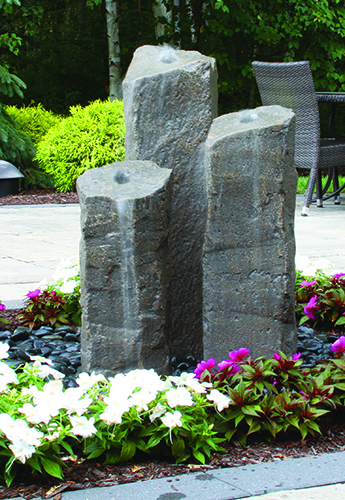
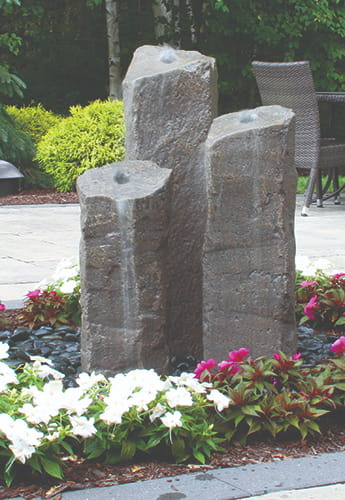
Add AI enhanced text to the AI generated images. Remove this from alt text.

diff --git a/assets/js/theme/product.js b/assets/js/theme/product.js
@@ -80,6 +80,7 @@ export default class Product extends PageManager {
         });
 
         this.productReviewHandler();
+        this.generateWaterMark();
     }
 
     ariaDescribeReviewInputs($form) {
@@ -102,5 +103,58 @@ export default class Product extends PageManager {
         if (this.url.indexOf('#bulk_pricing') !== -1) {
             this.$bulkPricingLink.trigger('click');
         }
+    }
+
+    generateWaterMark() {
+        const watermarkText = this.context.ai_watermark_text;
+
+        const slides = document.querySelectorAll('.ob-image-main-carousel .productView-image.slick-slide');
+
+        slides.forEach((slide) => {
+            const img = slide.querySelector('img[data-main-image]');
+            const container = slide.querySelector('.productView-img-container');
+
+            if (!img || !container) return;
+
+            const alt = img.getAttribute('alt') || '';
+            const hasAiMarker = alt.includes('--AI');
+
+            const existing = container.querySelector('.ai-enhanced-watermark');
+
+            if (!hasAiMarker) {
+                if (existing) existing.remove();
+                return;
+            }
+
+            if (existing) return;
+
+            if (hasAiMarker) {
+                img.setAttribute("alt", alt.replace(/\s*--AI\s*/g, " ").trim());
+            }
+
+            container.style.position = 'relative';
+
+            const watermark = document.createElement('div');
+            watermark.className = 'ai-enhanced-watermark';
+            watermark.textContent = watermarkText;
+            watermark.style.cssText = `
+                position: absolute;
+                right: 18px;
+                bottom: 15px;
+                background: rgba(0, 0, 0, 0.65);
+                color: white;
+                padding: 4px 8px;
+                font-size: 12px;
+                font-weight: 600;
+                border-radius: 4px;
+                z-index: 20;
+                pointer-events: none;
+                line-height: 1;
+                white-space: nowrap;
+            `;
+
+            container.appendChild(watermark);
+            img.setAttribute("alt", alt.replace("--AI", ""));
+        });
     }
 }

diff --git a/templates/components/products/product-view.html b/templates/components/products/product-view.html
@@ -1,3 +1,4 @@
+{{inject "ai_watermark_text" theme_settings.ai_watermark_text}}
 <div class="productView"
     {{#if settings.data_tag_enabled}}
     data-event-type="product"
